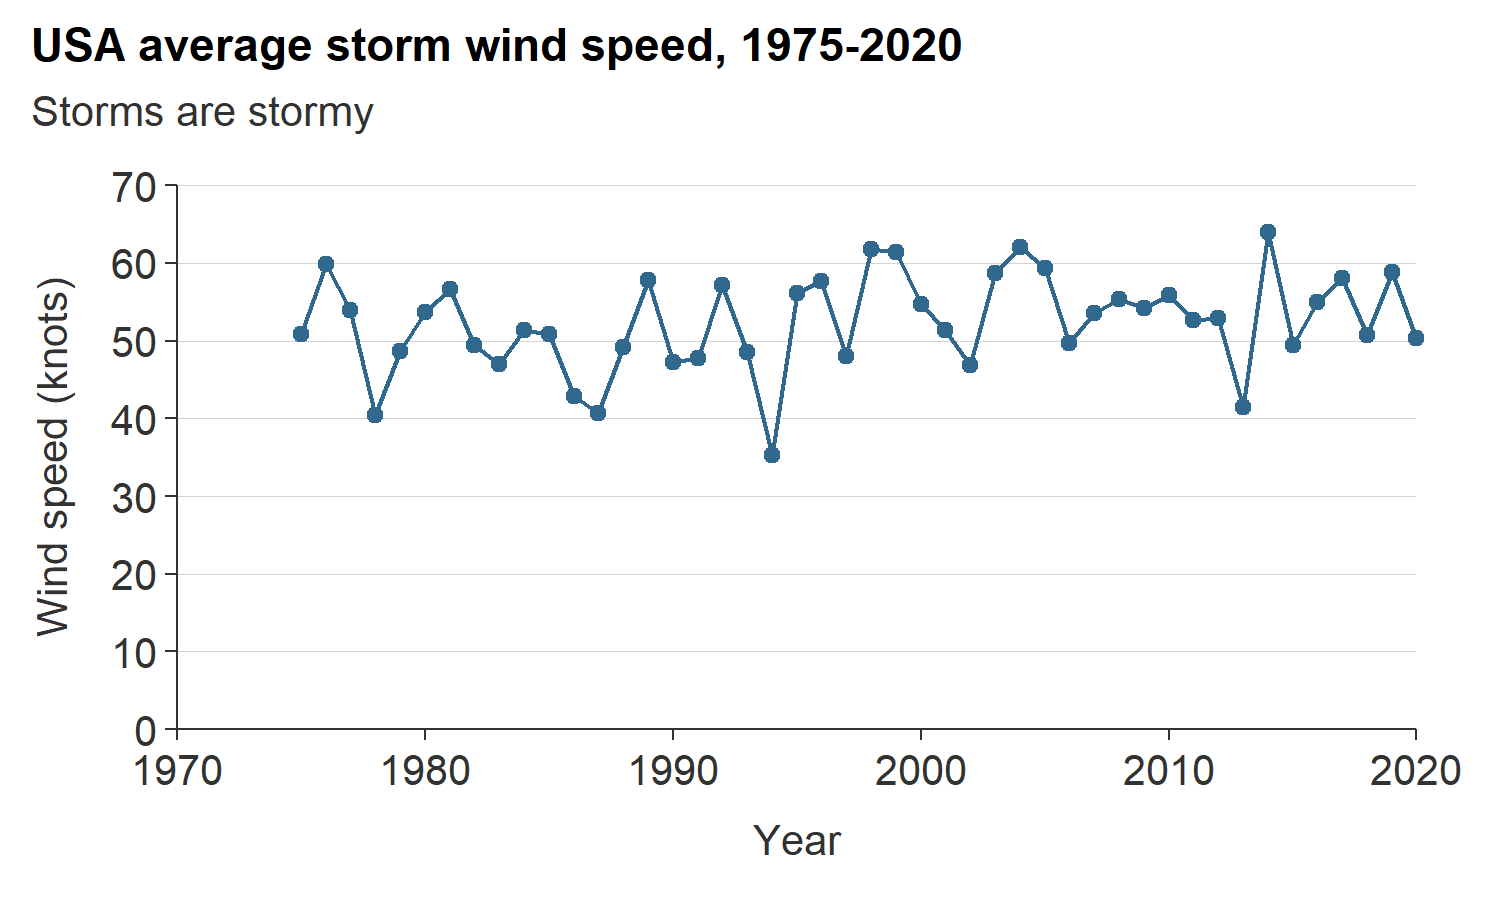
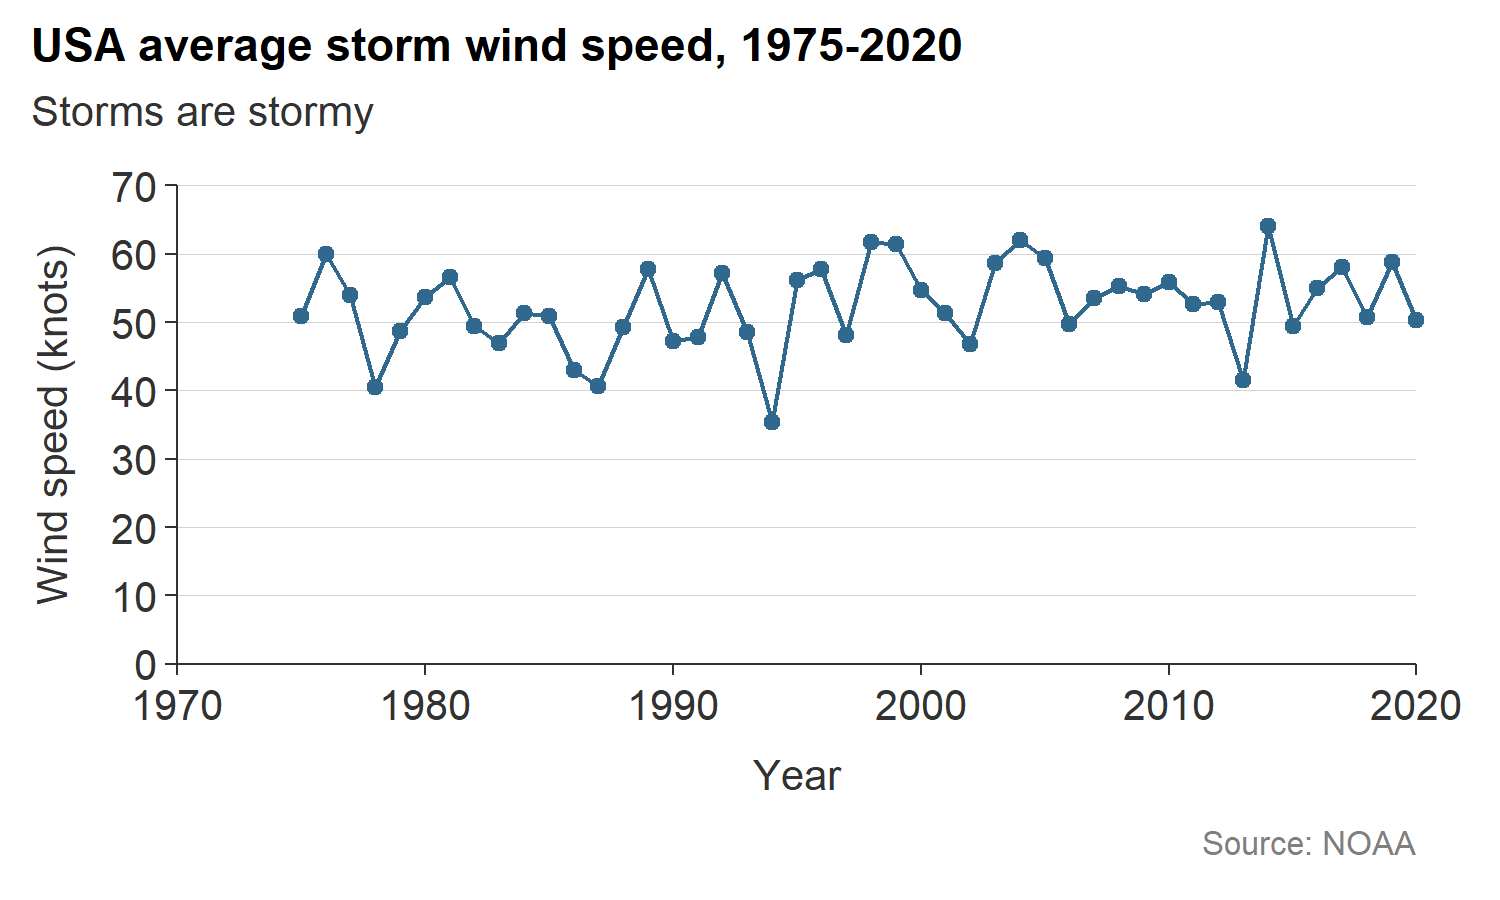
Adjust caption defaults

diff --git a/README.md b/README.md
@@ -138,6 +138,7 @@ storms %>%
           title = "USA average storm wind speed, 1975-2020",
           subtitle = "Storms are stormy", 
           y_title = "Wind speed (knots)", 
+          caption = "Source: NOAA",
           theme = gg_theme(y_grid = TRUE)) +
   geom_point()
 ```
